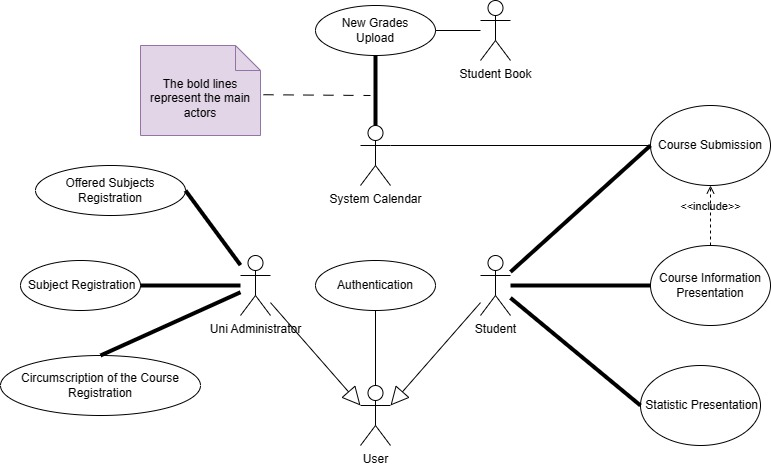
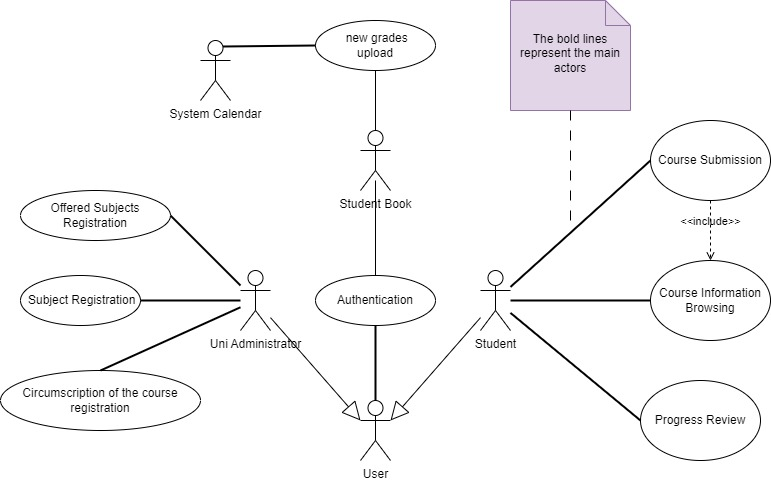
UseCase changes and comments for uc description

diff --git a/docs/markdown/uc3-circumscription-of-course-registration.md b/docs/markdown/uc3-circumscription-of-course-registration.md
@@ -7,7 +7,7 @@
 - **Υπεύθυνος Γραμματείας**: Θέλει να περιορίσει (έμμεσα) τον αριθμό των μαθημάτων που μπορεί ο φοιτητής να δηλώσει ανάλογα με το έτος που φοιτεί.  
 - **Φοιτητής**: Θέλει να μπορεί βλέπει μέχρι πόσα ECTS μπορεί να δηλώσει.  
 **Προϋποθέσεις**: Ο Υπεύθυνος Γραμματείας έχει εκτελέσει με επιτυχία την περίπτωση χρήσης “Ταυτοποίηση χρήστη”. 
-
+ΑΛΛΑΓΗ 
 ## Βασική Ροή
 
 ### Καταχώρηση Προυποθέσεων

diff --git a/docs/markdown/uc4-offered-subjects-registration.md b/docs/markdown/uc4-offered-subjects-registration.md
@@ -12,6 +12,7 @@
 - Ο Υπεύθυνος Γραμματείας έχει εκτελέσει με επιτυχία την περίπτωση χρήσης “Ταυτοποίηση χρήστη”. 
 - Έχει ήδη ολοκληρωθεί η Περίπτωση Χρήσης 2
 
+
 ## Βασική Ροή
 
 ### Καταχώρηση Προσφερόμενων Μαθημάτων
@@ -26,6 +27,7 @@
 9. Το σύστημα καταχωρεί τα προσφερόμενα μαθήματα
 10. Το σύστημα εμφανίζει κατάλληλο μήνυμα 
 
+ΑΛΛΑΓΗ 
 ## Εναλλακτικές Ροές
 
 *Σε οποιοδήποτε σημείο το λογισμικό καταρρέει.

diff --git a/docs/markdown/uc1-user-authentication.md b/docs/markdown/uc1-user-authentication.md
@@ -13,7 +13,7 @@
 ## Βασική Ροή
 1. Το σύστημα εμφανίζει στον χρήστη την φόρμα συμπλήρωσης στοιχείων.
 2. Ο Χρήστης συμπληρώνει τα στοιχεία του
-3. Το σύστημα ελέγχει την ορθότητα των στοιχείων (username, password)
+3. Το σύστημα ελέγχει την ορθότητα των στοιχείων (username, password) ΜΕ ΒΑΣΗ ΤΟ ΦΟΙΤΗΤΟΛΟΓΙΟ 
 4. Το σύστημα εμφανίζει μήνυμα επιτυχούς σύνδεσης
 
 ## Εναλλακτικές Ροές

diff --git a/docs/markdown/uc5-course-info-presentation.md b/docs/markdown/uc5-course-info-presentation.md
@@ -1,4 +1,4 @@
-ΠΧ5. Εμφάνιση Πληροφοριών των μαθημάτων 
+ΠΧ5. Εμφάνιση Πληροφοριών των μαθημάτων  ΑΛΛΑΓΗ 
 
 **Πρωτεύων Actor**: Φοιτητής  
 **Ενδιαφερόμενοι**

diff --git a/docs/markdown/uc8-statistic-presentation.md b/docs/markdown/uc8-statistic-presentation.md
@@ -1,4 +1,4 @@
-# ΠΧ8. Παρουσίαση Στατιστικών Στοιχείων 
+# ΠΧ8. Παρουσίαση Στατιστικών Στοιχείων = ΠΡΟΒΟΛΗ ΠΡΟΟΔΟΥ 
 
 **Πρωτεύων Actor**: Φοιτητής
 

diff --git a/docs/markdown/uc6-course-submission.md b/docs/markdown/uc6-course-submission.md
@@ -1,4 +1,4 @@
-ΠΧ6. Δήλωση μαθημάτων 
+ΠΧ6. Δήλωση μαθημάτων ΑΛΛΑΓΗ 
 
 **Πρωτεύων Actor**: Φοιτητής  
 
